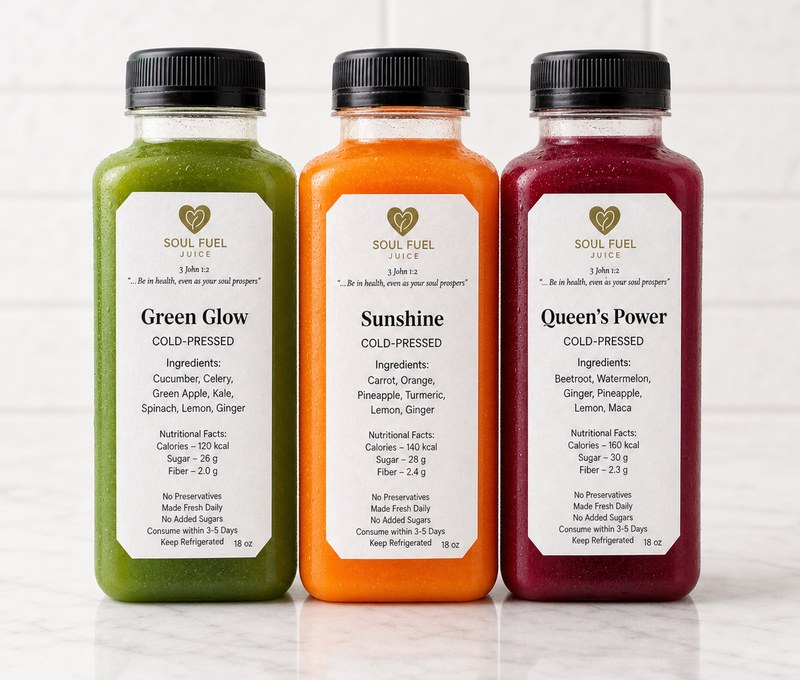
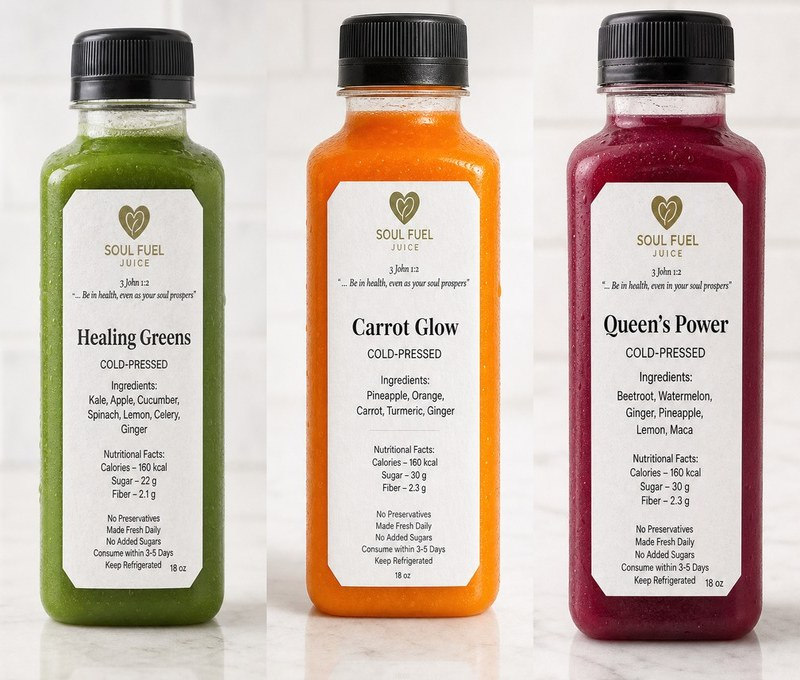
Fix 3-Pack Sampler image: Healing Greens, Carrot Glow, Queen's Power
Rebuild juice-trio from the real labeled bottle renders instead of the
AI trio that had invented flavor names. Cache-bust to v=3.

diff --git a/benefits.html b/benefits.html
@@ -44,7 +44,7 @@
 
 <section class="section">
   <div class="container split">
-    <div class="split-media reveal"><img src="assets/img/juice-trio.jpg?v=2" alt="Carrot Glow, Beet & Bless, and Healing Greens cold-pressed juices" loading="lazy" width="1254" height="1254"></div>
+    <div class="split-media reveal"><img src="assets/img/juice-trio.jpg?v=3" alt="Carrot Glow, Beet & Bless, and Healing Greens cold-pressed juices" loading="lazy" width="1254" height="1254"></div>
     <div class="reveal">
       <span class="eyebrow">Never heated, never rushed</span>
       <h2>Why Cold-Pressed Matters</h2>

diff --git a/blog.html b/blog.html
@@ -45,7 +45,7 @@
   <div class="container">
     <div class="grid grid--3">
 <article class="card reveal">
-  <a href="blog/why-cold-pressed.html" aria-label="Read: Why Cold-Pressed? 5 Reasons Your Body Will Thank You"><div class="card-media"><img src="assets/img/juice-trio.jpg?v=2" alt="Three Soul Fuel Juice cold-pressed juices" loading="lazy"></div></a>
+  <a href="blog/why-cold-pressed.html" aria-label="Read: Why Cold-Pressed? 5 Reasons Your Body Will Thank You"><div class="card-media"><img src="assets/img/juice-trio.jpg?v=3" alt="Three Soul Fuel Juice cold-pressed juices" loading="lazy"></div></a>
   <div class="card-body">
     <span class="post-meta">Nutrition · July 2026</span>
     <h3><a href="blog/why-cold-pressed.html">Why Cold-Pressed? 5 Reasons Your Body Will Thank You</a></h3>

diff --git a/blog/why-cold-pressed.html b/blog/why-cold-pressed.html
@@ -43,7 +43,7 @@
 </section>
 <section class="section">
   <div class="container prose">
-    <img src="../assets/img/juice-trio.jpg?v=2" alt="Three Soul Fuel Juice cold-pressed juices" loading="lazy">
+    <img src="../assets/img/juice-trio.jpg?v=3" alt="Three Soul Fuel Juice cold-pressed juices" loading="lazy">
     
 <p>Walk down any grocery aisle and you&rsquo;ll see shelves of &ldquo;juice&rdquo; that spent months in a warehouse. Most of it was heat-pasteurized, reconstituted from concentrate, and sweetened along the way. Cold-pressed juice is a different food entirely. Here&rsquo;s why.</p>
 <h2>1. Heat destroys nutrients &mdash; pressure doesn&rsquo;t</h2>

diff --git a/js/products.js b/js/products.js
@@ -102,7 +102,7 @@ const PRODUCTS = [
   /* ---- Bundles & cleanse packs ---- */
   {
     id: "sampler-3", type: "bundle", name: "3-Pack Sampler",
-    img: "/assets/img/juice-trio.jpg?v=2",
+    img: "/assets/img/juice-trio.jpg?v=3",
     ingredients: "Mix & match any three juices — tell us your flavors at checkout",
     benefits: ["Mix & Match", "Best For First-Timers"],
     sizes: [